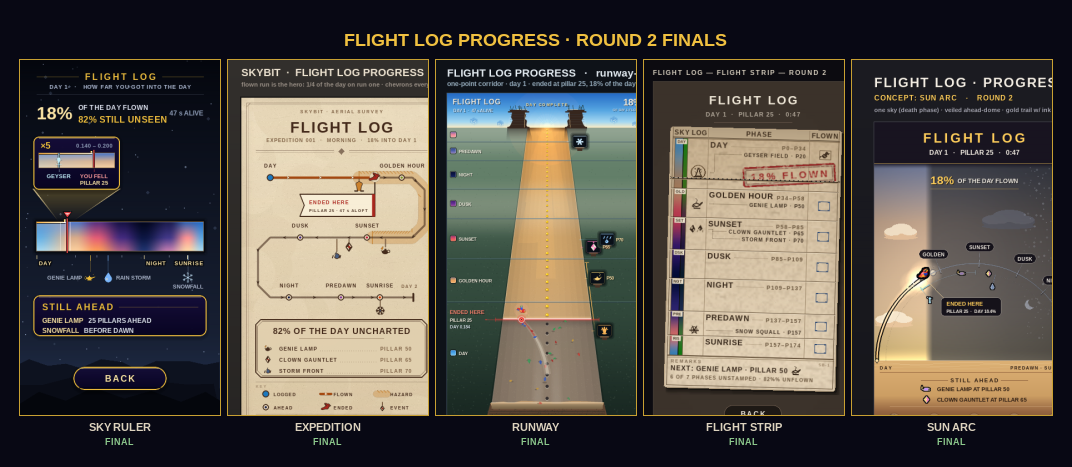
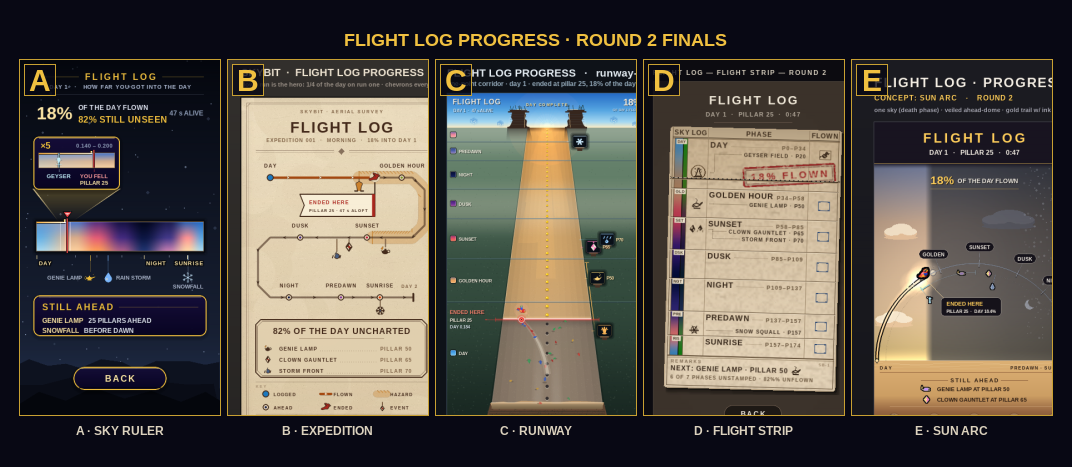
Flight Log showcase — add A–E concept ID chips
Overlays a 32×32 gold-bordered dark chip in the top-left corner of each
panel with the concept letter (A–E) in large gold type, and updates the
footer to "A · SKY RULER" combined ID + name format.

diff --git a/tools/build_flight_log_showcase.py b/tools/build_flight_log_showcase.py
@@ -26,6 +26,8 @@ LABELS = {
     'sun_arc':          'SUN ARC',
 }
 
+IDS = ['A', 'B', 'C', 'D', 'E']
+
 # Layout constants
 BG        = (8, 8, 20)
 PANEL_W   = 200
@@ -44,8 +46,8 @@ surf.fill(BG)
 
 # ── header ──────────────────────────────────────────────────────────────────
 font_hdr = pygame.font.Font(FONT_PATH, 18)
-font_lbl = pygame.font.Font(FONT_PATH, 11)
-font_tag = pygame.font.Font(FONT_PATH, 9)
+font_lbl = pygame.font.Font(FONT_PATH, 12)
+font_id  = pygame.font.Font(FONT_PATH, 30)
 
 hdr_text = font_hdr.render('FLIGHT LOG PROGRESS · ROUND 2 FINALS', True, (240, 192, 64))
 hdr_x = (CANVAS_W - hdr_text.get_width()) // 2
@@ -53,10 +55,13 @@ hdr_y = MARGIN + (HEADER_H - hdr_text.get_height()) // 2
 surf.blit(hdr_text, (hdr_x, hdr_y))
 
 # ── panels ───────────────────────────────────────────────────────────────────
+GOLD = (200, 160, 50)
+
 for i, slug in enumerate(SLUGS):
     panel_x = MARGIN + i * (PANEL_W + GAP)
     panel_y = MARGIN + HEADER_H
     footer_y = panel_y + PANEL_H
+    letter = IDS[i]
 
     # Load the source image and crop the primary 360×640 game frame
     src = pygame.image.load(f'docs/flight_log_progress/{slug}/round_2.png')
@@ -70,21 +75,28 @@ for i, slug in enumerate(SLUGS):
     surf.blit(panel, (panel_x, panel_y))
 
     # 1px gold border around panel
-    GOLD = (200, 160, 50)
     pygame.draw.rect(surf, GOLD, (panel_x - 1, panel_y - 1, PANEL_W + 2, PANEL_H + 2), 1)
 
-    # Footer: slug label + FINAL tag
-    label = LABELS[slug]
+    # ID letter chip — dark background square in top-left corner of panel
+    CHIP = 32
+    chip_x, chip_y = panel_x + 4, panel_y + 4
+    chip_surf = pygame.Surface((CHIP, CHIP))
+    chip_surf.fill((8, 8, 20))
+    chip_surf.set_alpha(200)
+    surf.blit(chip_surf, (chip_x, chip_y))
+    pygame.draw.rect(surf, GOLD, (chip_x, chip_y, CHIP, CHIP), 1)
+
+    id_surf = font_id.render(letter, True, (240, 192, 64))
+    id_x = chip_x + (CHIP - id_surf.get_width()) // 2
+    id_y = chip_y + (CHIP - id_surf.get_height()) // 2
+    surf.blit(id_surf, (id_x, id_y))
+
+    # Footer: "A · SKY RULER" on one line
+    label = f'{letter} · {LABELS[slug]}'
     lbl_surf = font_lbl.render(label, True, (220, 210, 190))
-    tag_surf = font_tag.render('FINAL', True, (140, 200, 140))
-
     lbl_x = panel_x + (PANEL_W - lbl_surf.get_width()) // 2
-    lbl_y = footer_y + 6
+    lbl_y = footer_y + (FOOTER_H - lbl_surf.get_height()) // 2
     surf.blit(lbl_surf, (lbl_x, lbl_y))
-
-    tag_x = panel_x + (PANEL_W - tag_surf.get_width()) // 2
-    tag_y = lbl_y + lbl_surf.get_height() + 2
-    surf.blit(tag_surf, (tag_x, tag_y))
 
 # ── save ──────────────────────────────────────────────────────────────────────
 out = 'docs/flight_log_progress/showcase.png'
